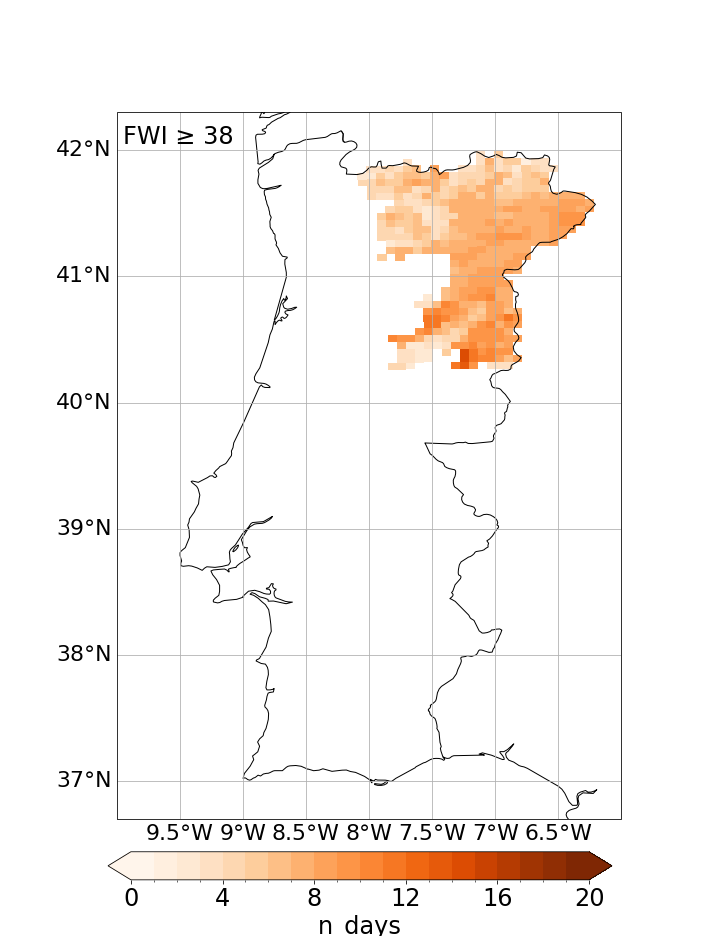
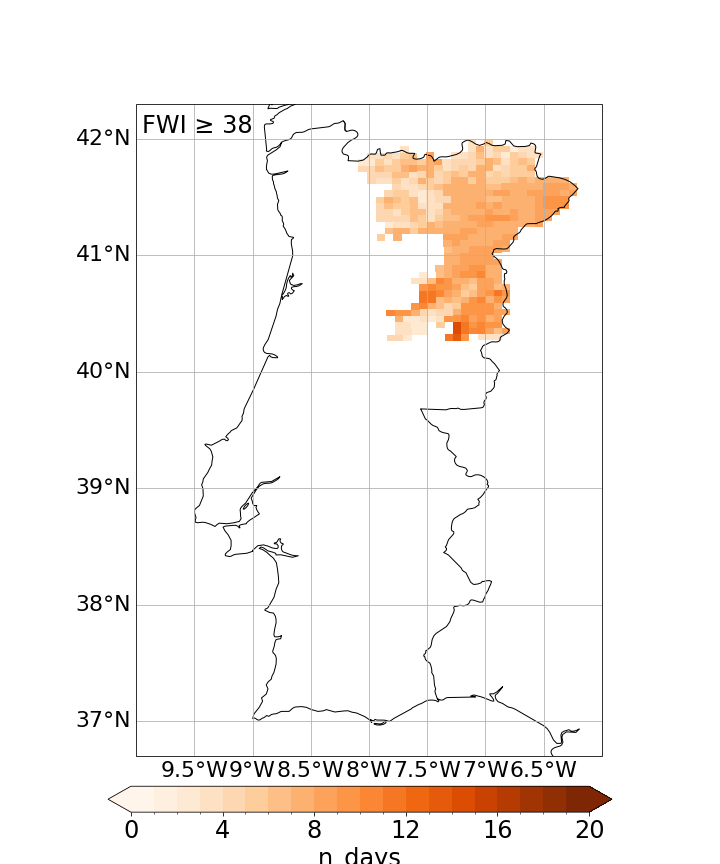
First commit

diff --git a/examples/plots_fwi.py b/examples/plots_fwi.py
@@ -101,7 +101,7 @@ label_name = 'FWI (mean)'
 var = 'fwi_mean_nomask'
 fig_p = output_dir+plot_name1
 cb_lims, delta_c = [[15, 40], 5] # colorbar limits and delta
-fig, ax = make_map(my_proj, fnt_size=22, fig_size=[10, 13])
+fig, ax = make_map(my_proj, fnt_size=22, fig_size=[10, 12])
 plot_fwi_vars(fig=fig, ax=ax, fig_path=fig_p, domain_lims=d_lims, var=var,
                var_dict=fwi_fields, lon=lon, lat=lat, top_label=label_name,
                colorbar_lims=cb_lims, colorbar_delta=delta_c)
@@ -110,7 +110,7 @@ label_name = 'FWI (mean)'
 var = 'fwi_mean'
 fig_p = output_dir+plot_name2
 cb_lims, delta_c = [[15, 40], 5]
-fig, ax = make_map(my_proj, fnt_size=22, fig_size=[10, 13])
+fig, ax = make_map(my_proj, fnt_size=22, fig_size=[10, 12])
 plot_fwi_vars(fig=fig, ax=ax, fig_path=fig_p, domain_lims=d_lims, var=var,
                var_dict=fwi_fields, lon=lon, lat=lat, top_label=label_name,
                colorbar_lims=cb_lims, colorbar_delta=delta_c)
@@ -120,7 +120,7 @@ danger_lvl = 'veryhigh'
 var = 'ndays_'+danger_lvl
 fig_p = output_dir+plot_name3
 cb_lims, delta_c = [[0, 20], 4]
-fig, ax = make_map(my_proj, fnt_size=22, fig_size=[10, 13])
+fig, ax = make_map(my_proj, fnt_size=22, fig_size=[10, 12])
 plot_fwi_vars(fig=fig, ax=ax, fig_path=fig_p, domain_lims=d_lims, var=var,
                var_dict=fwi_fields, lon=lon, lat=lat, top_label=label_name,
                colorbar_lims=cb_lims, colorbar_delta=delta_c)
@@ -130,7 +130,7 @@ danger_lvl = 'extreme'
 var = 'ndays_'+danger_lvl
 fig_p = output_dir+plot_name4
 cb_lims, delta_c = [[0, 10], 2]
-fig, ax = make_map(my_proj, fnt_size=22, fig_size=[10, 13])
+fig, ax = make_map(my_proj, fnt_size=22, fig_size=[10, 12])
 plot_fwi_vars(fig=fig, ax=ax, fig_path=fig_p, domain_lims=d_lims, var=var,
                var_dict=fwi_fields, lon=lon, lat=lat, top_label=label_name,
                colorbar_lims=cb_lims, colorbar_delta=delta_c)

diff --git a/README.md b/README.md
@@ -55,11 +55,11 @@ Description: Creates three simple map plots with Matplotlib and Cartopy. Applies
 fwi_mean_nomask.png
 ```
 Map of the FWI mean without masking.
-<img src="https://github.com/nunomrm/fwi-wrfout/blob/main/output/plots/fwi_mean_nomask.png">
+<img src="https://github.com/nunomrm/fwi-wrfout/blob/main/output/plots/fwi_mean_nomask.png" width="200"/>
 
 ```
 fwi_mean.png
 ```
 Map of the FWI mean with masking.
-<img src="https://github.com/nunomrm/fwi-wrfout/blob/main/output/plots/fwi_mean.png">
+<img src="https://github.com/nunomrm/fwi-wrfout/blob/main/output/plots/fwi_mean.png" width="200"/>
 
